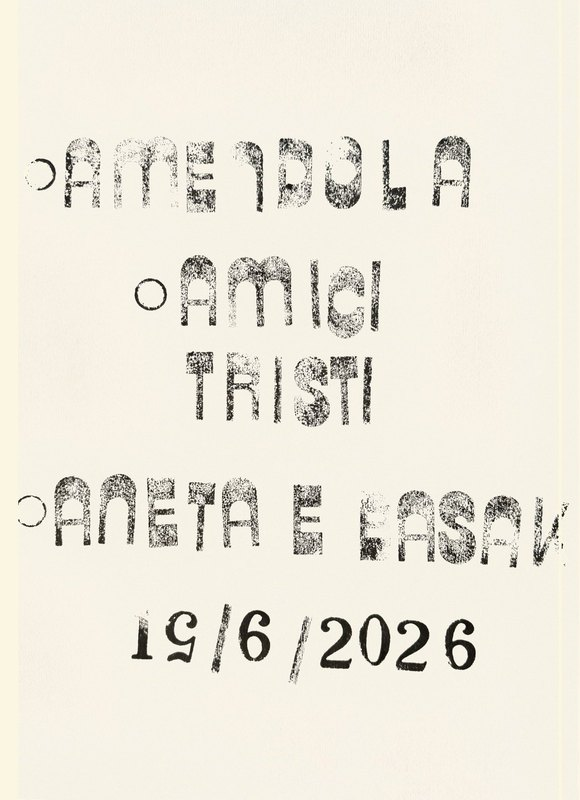
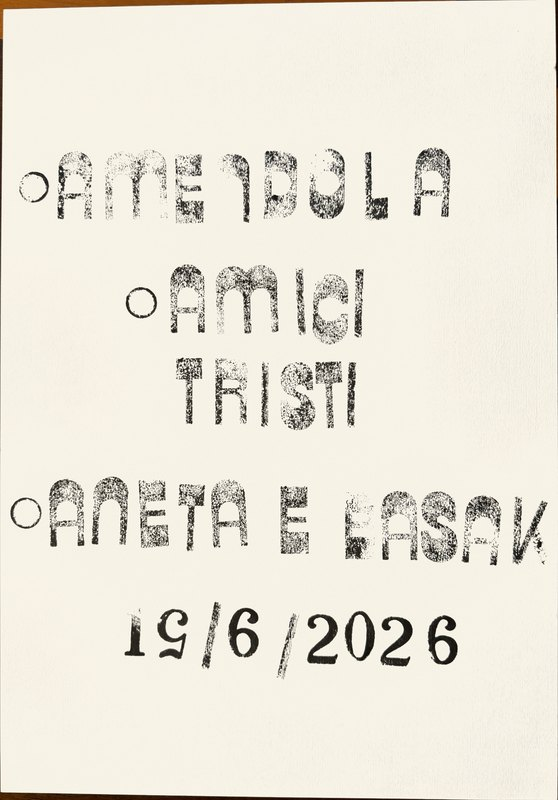
fix: 15/6 da zero - Otsu+bbox+v5 pulito, no toppe

diff --git a/index.html b/index.html
@@ -672,11 +672,11 @@ section#timbri{ padding-top: clamp(160px, 18vw, 240px); }
       <figcaption class="work-caption"><span class="work-date">16/6/26</span></figcaption>
     </figure>
     <figure class="work">
-      <div class="work-frame" style="--ratio: 137.9%;">
+      <div class="work-frame" style="--ratio: 143.31%;">
         <img src="foto_definitive/Timbro_2026-06-15.jpg"
              srcset="foto_definitive/thumbs/Timbro_2026-06-15.jpg 800w, foto_definitive/Timbro_2026-06-15.jpg 1800w"
              sizes="(max-width: 720px) 92vw, 720px"
-             width="1269" height="1750"
+             width="1256" height="1800"
              alt="15/6/26" loading="lazy" decoding="async" />
       </div>
       <figcaption class="work-caption"><span class="work-date">15/6/26</span></figcaption>
